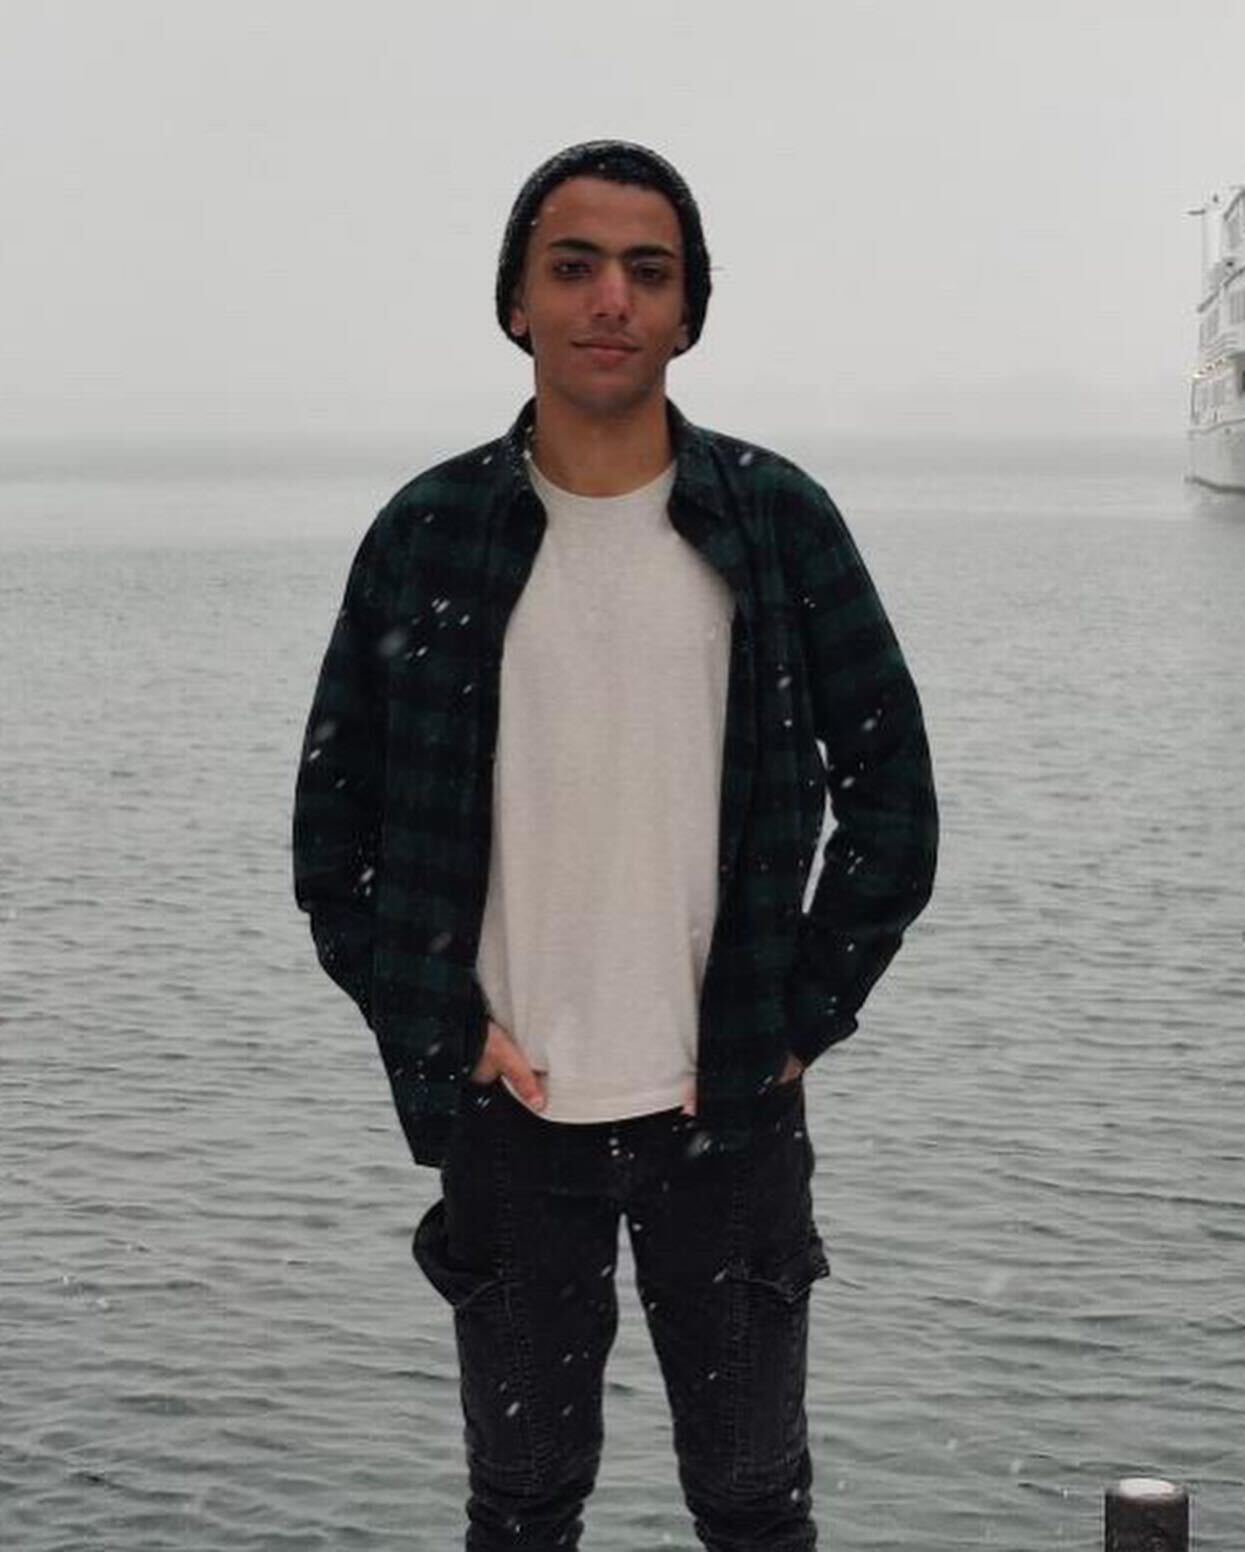
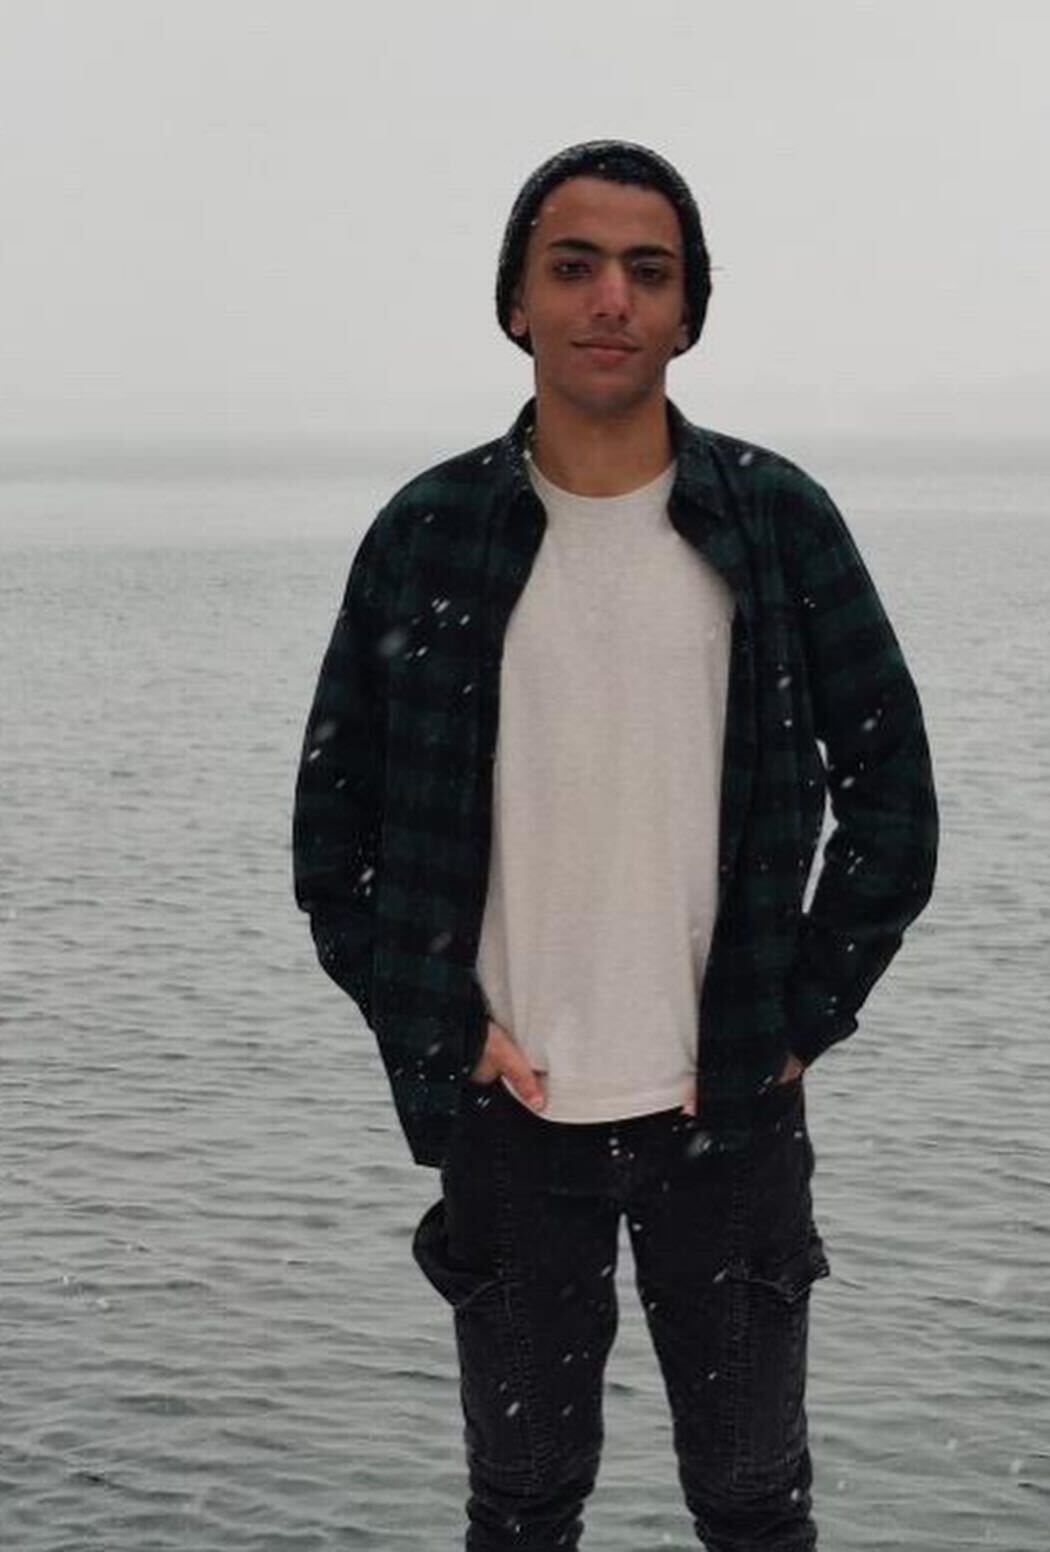
brief edit & responsiveness fix

diff --git a/components/Profile.jsx b/components/Profile.jsx
@@ -1,21 +1,10 @@
 import { PROFILE, NAVIGATION } from '../utils/json/constants';
-import Link from "next/link";
 
 const Profile = () => {
   return (
-    <div className="relative h-screen bg-gray-900 overflow-hidden min-h-[600px] md:min-h-[800px] lg:min-h-[400px]">
+    <div className="relative h-screen bg-gray-900 overflow-hidden min-h-[800px] md:min-h-[1200px] lg:min-h-[700px]">
         <div className="max-w-7xl mx-auto">
             <div className="relative lg:h-screen z-10 pb-8 bg-gray-900 sm:pb-16 sm: md:pb-20 lg:max-w-2xl lg:w-full lg:pb-28 xl:pb-32">
-                <svg
-                    className="hidden lg:block absolute right-0 inset-y-0 h-full w-48 text-gray-900 transform translate-x-1/2 min-h-[600px] md:min-h-[800px] lg:min-h-[400px]"
-                    fill="currentColor"
-                    viewBox="0 0 100 100"
-                    preserveAspectRatio="none"
-                    aria-hidden="true"
-                >
-                    <polygon points="50,0 100,0 50,100 0,100" />
-                </svg>
-
                 <nav className="relative flex items-center justify-between sm:h-16 lg:justify-start" aria-label="Global">
                     <div className="block ml-10 pr-4 space-x-8">
                         {NAVIGATION.map(item => (
@@ -35,9 +24,11 @@ const Profile = () => {
                         <h1 className="text-4xl tracking-tight font-extrabold text-blue-100 sm:text-5xl md:text-6xl">
                             <span className="block text-purple-600 xl:inline">{PROFILE.JOB_TITLE}</span>
                         </h1>
-                        <p className="mt-3 text-base text-blue-100 sm:mt-5 sm:text-lg sm:max-w-xl sm:mx-auto md:mt-5 md:text-xl lg:mx-0">
-                            {PROFILE.BRIEF}
-                        </p>
+                        {PROFILE.BRIEF.map(sentence => 
+                            <p className="mt-3 text-base text-blue-100 sm:mt-5 sm:text-lg sm:max-w-xl sm:mx-auto md:mt-5 md:text-xl lg:mx-0">
+                                {sentence}
+                            </p>
+                        )}
                     </div>
                     <div className="mt-8 sm:mt-10 lg:mt-16 xl:mt-20 w-full flex">
                         <a  href="/resume.pdf"
@@ -51,10 +42,19 @@ const Profile = () => {
             </div>
         </div>
         <div className="h-full lg:absolute lg:inset-y-0 lg:right-0 lg:w-1/2">
+            <svg
+                className="hidden lg:block absolute left-0 inset-y-0 h-full w-48 text-gray-900 transform min-h-[600px] md:min-h-[800px] lg:min-h-[400px]"
+                fill="currentColor"
+                viewBox="0 0 150 150"
+                preserveAspectRatio="none"
+                aria-hidden="true"
+            >
+                <polygon points="0,0 150,0 120,150 0,150" />
+            </svg>
             <picture>
                 <source srcSet='/images/profile.jpg' type="image/webp" />
                 <img
-                    className="object-cover object-top w-full bottom-0 h-full lg:w-full"
+                    className="object-cover object-top lg:object-left-top w-full bottom-0 h-full lg:w-full"
                     src="/images/profile.jpg"
                     alt="Photo of Mazen"
                 />

diff --git a/utils/json/constants.js b/utils/json/constants.js
@@ -1,7 +1,11 @@
 const PROFILE = {
   MAZEN_BAHGAT: 'Mazen Bahgat',
   JOB_TITLE: 'Full Stack Developer',
-  BRIEF: 'I am a software engineer based in Ontario, Canada. I enjoy building web, mobile and desktop applications.',
+  BRIEF: [ 
+    'An adept software engineer dedicated to creating impactful and seamless user experiences.', 
+    'I specialize in the development of robust and innovative solutions across web, mobile, and desktop platforms.',
+    'With a proven track record in delivering high-quality applications, I bring a wealth of experience in architecting efficient and scalable software.'
+  ],
   RESUME_BUTTON: 'Download Resume'
 };
 const NAVIGATION = [
